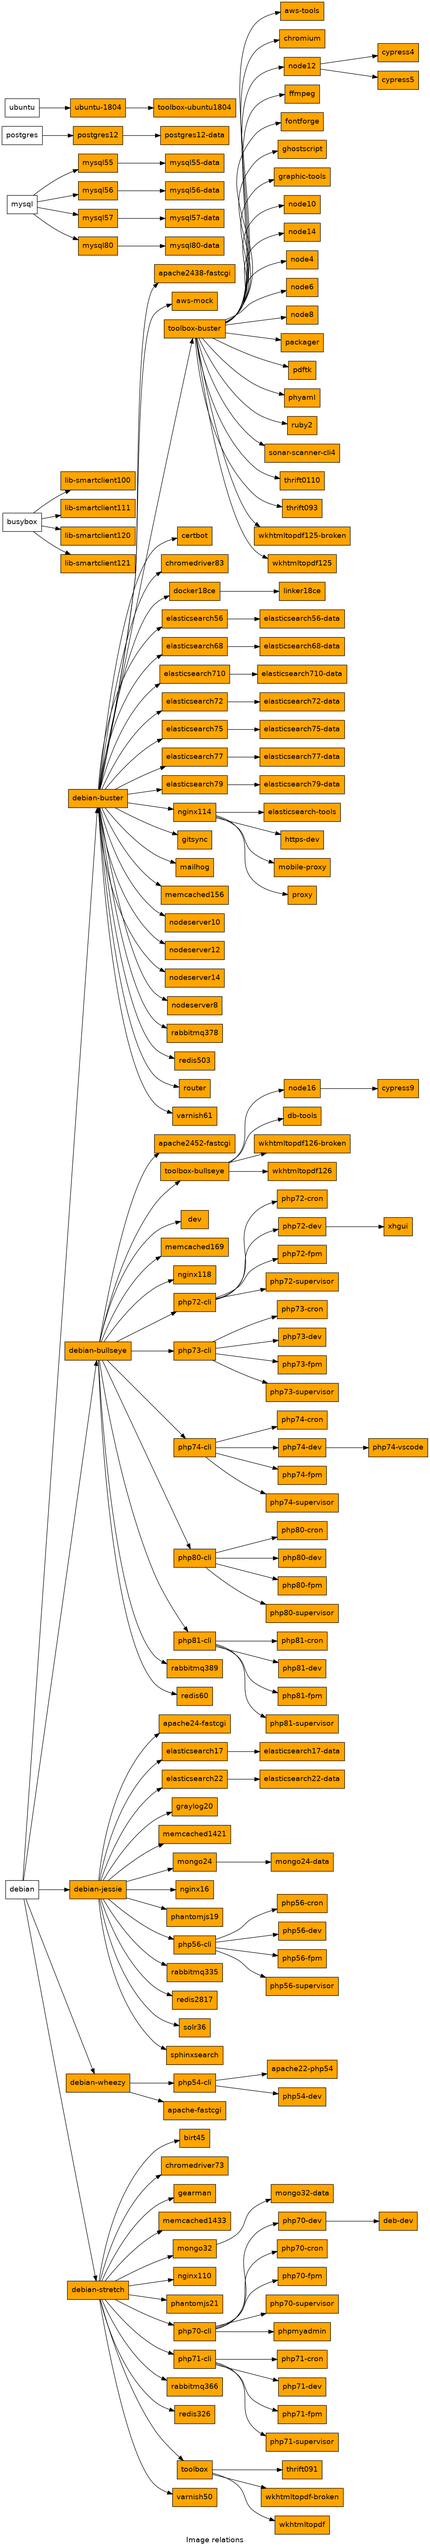
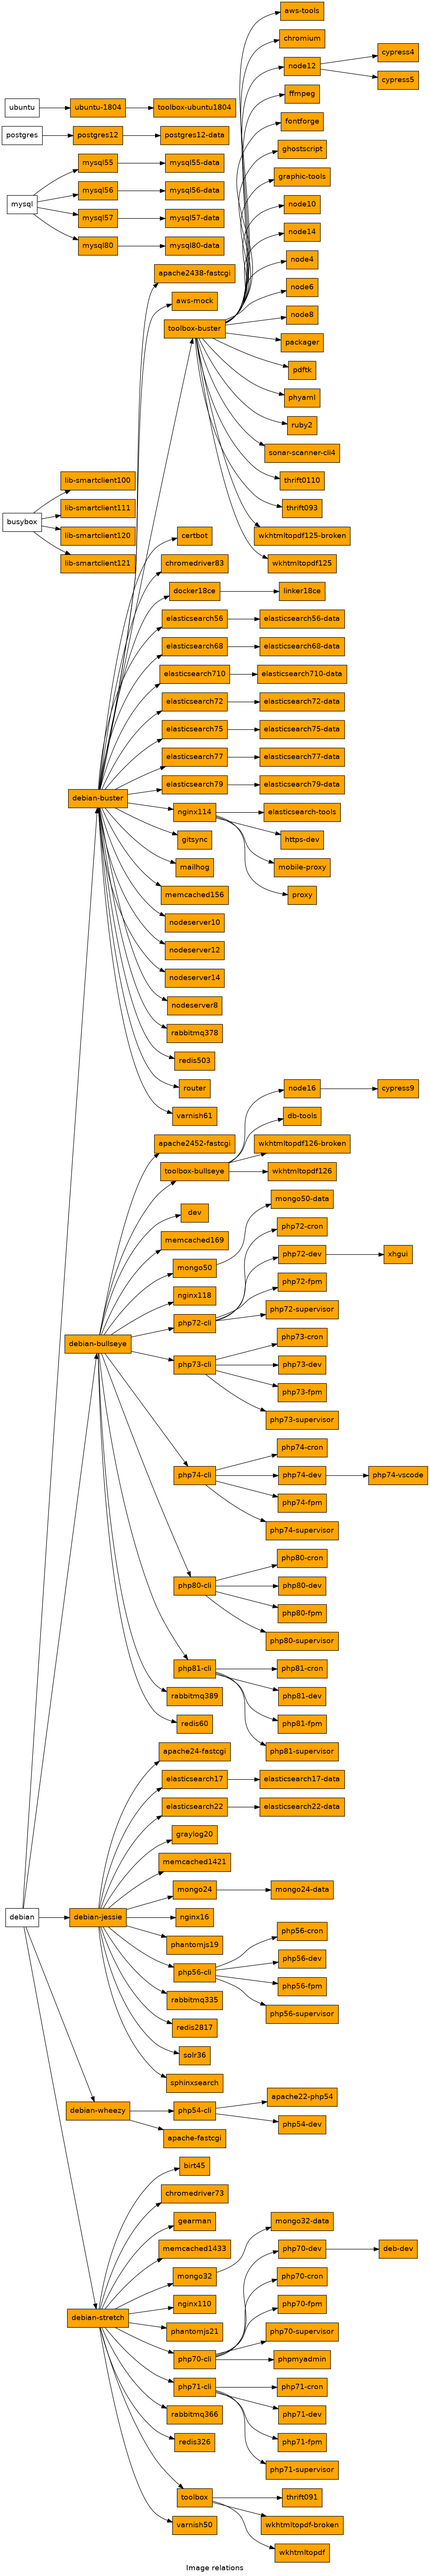
Created mongo50 and mongo50-data

diff --git a/mongo50/README.md b/mongo50/README.md
@@ -1,0 +1,21 @@
+## MongoDB 3.2
+
+### Sample configuration
+
+```
+version: '2.4'
+services:
+  mongo:
+    image: nfqlt/mongo50
+    ports:
+      - "10.24.0.0:27017:27017"
+    volumes_from:
+      - service:mongoVol:rw
+
+
+  mongoVol:
+    image: nfqlt/mongo50-data
+    volumes:
+      - /var/lib/mongodb
+
+```
